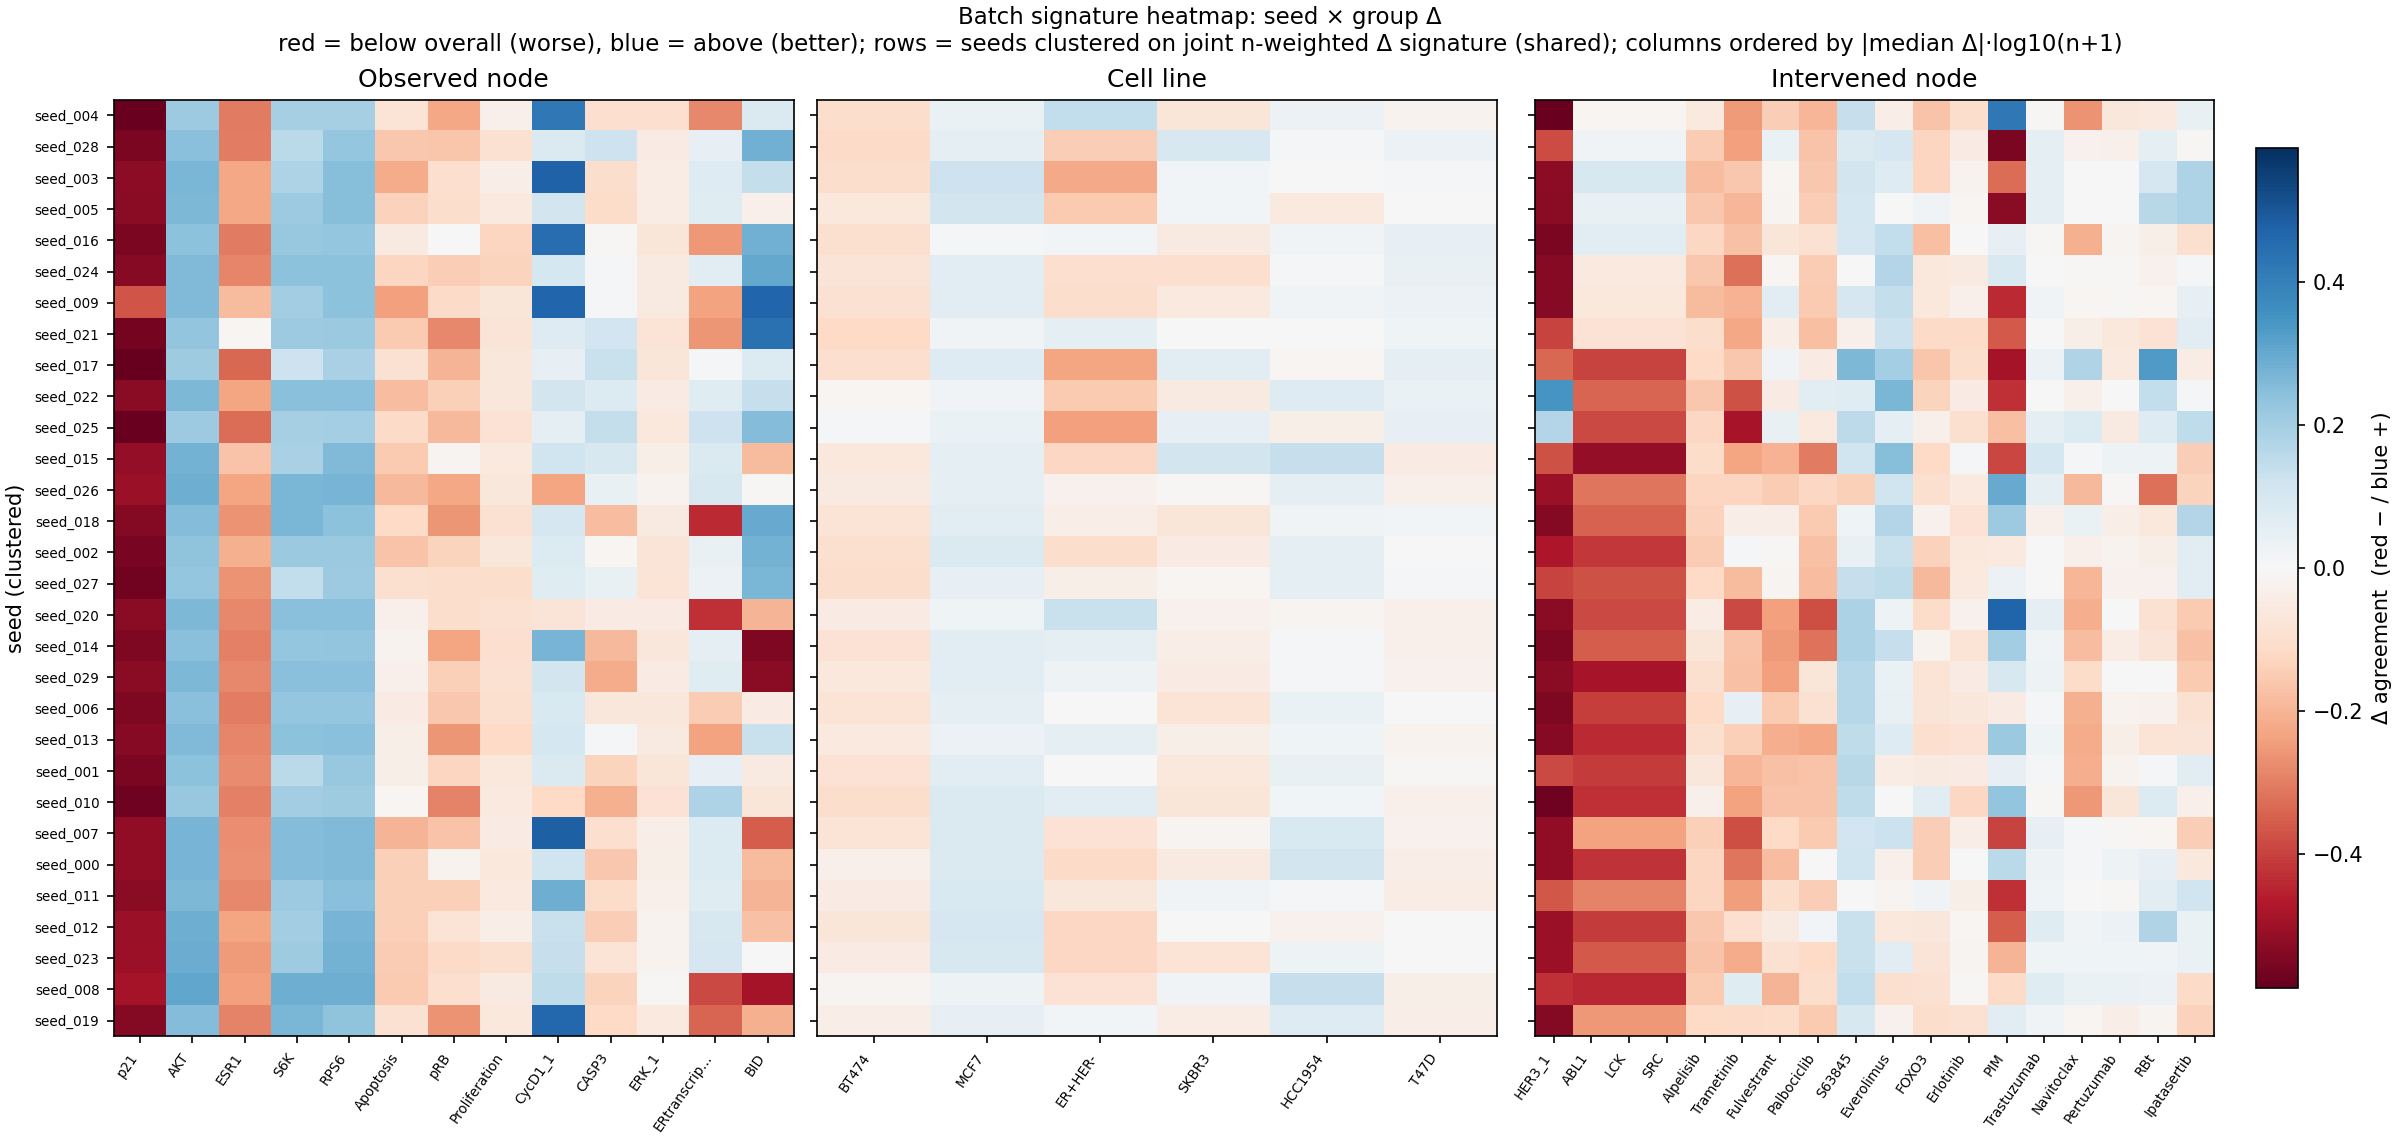
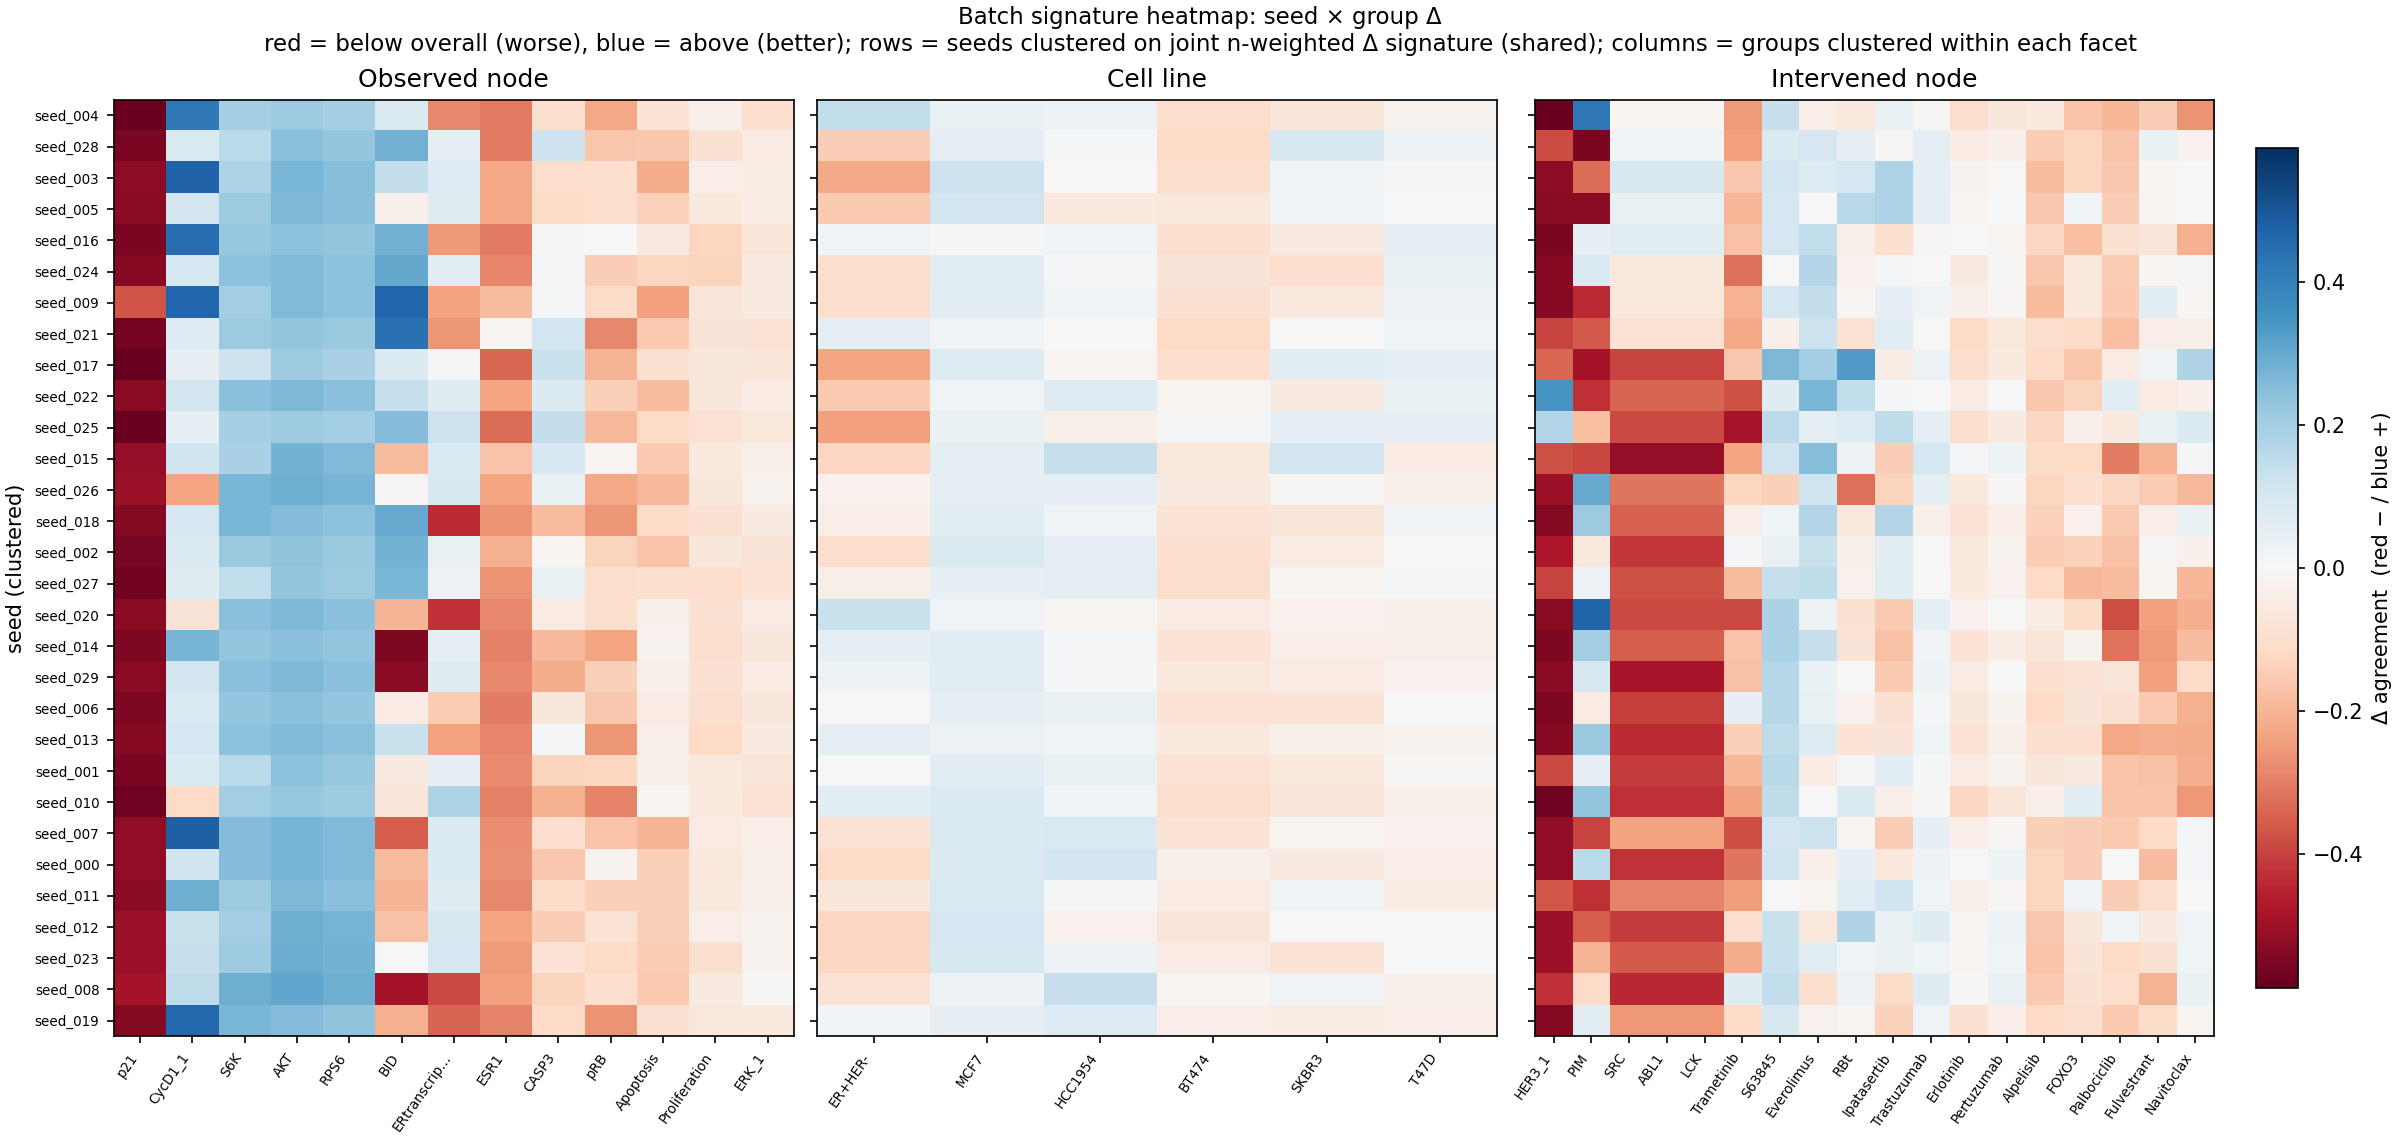
Modify anaysis plots

diff --git a/scripts/analyze_score_batch.py b/scripts/analyze_score_batch.py
@@ -54,8 +54,8 @@ from matplotlib.colors import TwoSlopeNorm
 from boolmore.io.paths import project_root
 
 # --- edit these to analyze a different batch ---
-RUN_DIR = "case_study/breast_cancer/runs/20261118T231453Z"
-# RUN_DIR = "case_study/breast_cancer/runs/20261119T130225Z"
+# RUN_DIR = "case_study/breast_cancer/runs/20261118T231453Z"
+RUN_DIR = "case_study/breast_cancer/runs/20261119T130225Z"
 DATA = None  # None → batch data.csv / analyze_score default
 MIN_N = 10
 TOP = 0  # 0 = all groups (pass min_n); N = cap tables / strip / heatmap columns
@@ -515,12 +515,12 @@ def _marker_sizes(ns: Sequence[int], *, lo: float = 18.0, hi: float = 90.0) -> l
     return out
 
 
-def _order_seeds_by_signature(rows: Sequence[Sequence[float]]) -> list[int]:
-    """Leaf order that groups similar seed signatures (shared across panels).
+def _cluster_leaf_order(rows: Sequence[Sequence[float]]) -> list[int]:
+    """Leaf order that groups similar vectors.
 
     Uses average-linkage hierarchical clustering on Euclidean distance when
     SciPy is available; otherwise sorts by the first principal component.
-    ``rows[i]`` is the concatenated, n-weighted Δ vector for seed i.
+    ``rows[i]`` is the feature vector for item i (NaNs treated as 0).
     """
     n = len(rows)
     if n <= 1:
@@ -566,12 +566,13 @@ def _build_clustered_heatmaps(
     top: int,
     facets: Sequence[tuple[str, str]],
 ) -> tuple[list[str], list[tuple[str, list[str], list[list[float]]] | None]]:
-    """Cluster seeds on the joint signature; return shared labels + panels.
+    """Cluster seeds jointly; cluster groups per facet; return labels + panels.
 
     Each panel is ``(title, groups, matrix)`` with rows in the shared seed
-    order, or ``None`` if that facet has no groups.
+    order and columns in that facet's group-cluster leaf order, or ``None``
+    if that facet has no groups.
     """
-    # Features: (facet, group, n) in consensus order within each facet.
+    # Features: (facet, group, n) — membership for joint seed clustering.
     features: list[tuple[str, str, int]] = []
     for facet, _title in facets:
         for r in _take_groups(by_facet[facet], top):
@@ -600,7 +601,7 @@ def _build_clustered_heatmaps(
     if not keep:
         return [], [None] * len(facets)
 
-    order_local = _order_seeds_by_signature(weighted_rows)
+    order_local = _cluster_leaf_order(weighted_rows)
     ordered_idx = [keep[j] for j in order_local]
     seed_labels = [seed_labels_all[i] for i in ordered_idx]
     ordered_seeds = [seed_ids[i] for i in ordered_idx]
@@ -611,6 +612,13 @@ def _build_clustered_heatmaps(
         if not groups:
             panels.append(None)
             continue
+        # Cluster groups on their across-seed Δ vectors (per facet).
+        group_vectors = [
+            [lookup.get((facet, sid, g), float("nan")) for sid in ordered_seeds]
+            for g in groups
+        ]
+        group_order = _cluster_leaf_order(group_vectors)
+        groups = [groups[j] for j in group_order]
         matrix = [
             [lookup.get((facet, sid, g), float("nan")) for g in groups]
             for sid in ordered_seeds
@@ -665,7 +673,7 @@ def write_overview_heatmap(
         ax.set_yticks(range(len(seed_labels)))
         ax.set_title(title)
 
-    # Seed labels only on the leftmost drawn panel.
+    # Seed labels only on the leftmost drawn panel (shared row order).
     labeled = False
     for ax, payload in zip(axes, panels):
         if payload is None:
@@ -686,7 +694,7 @@ def write_overview_heatmap(
         "Batch signature heatmap: seed × group Δ\n"
         "red = below overall (worse), blue = above (better); "
         "rows = seeds clustered on joint n-weighted Δ signature (shared); "
-        "columns ordered by |median Δ|·log10(n+1)",
+        "columns = groups clustered within each facet",
         fontsize=11,
     )
     path.parent.mkdir(parents=True, exist_ok=True)
